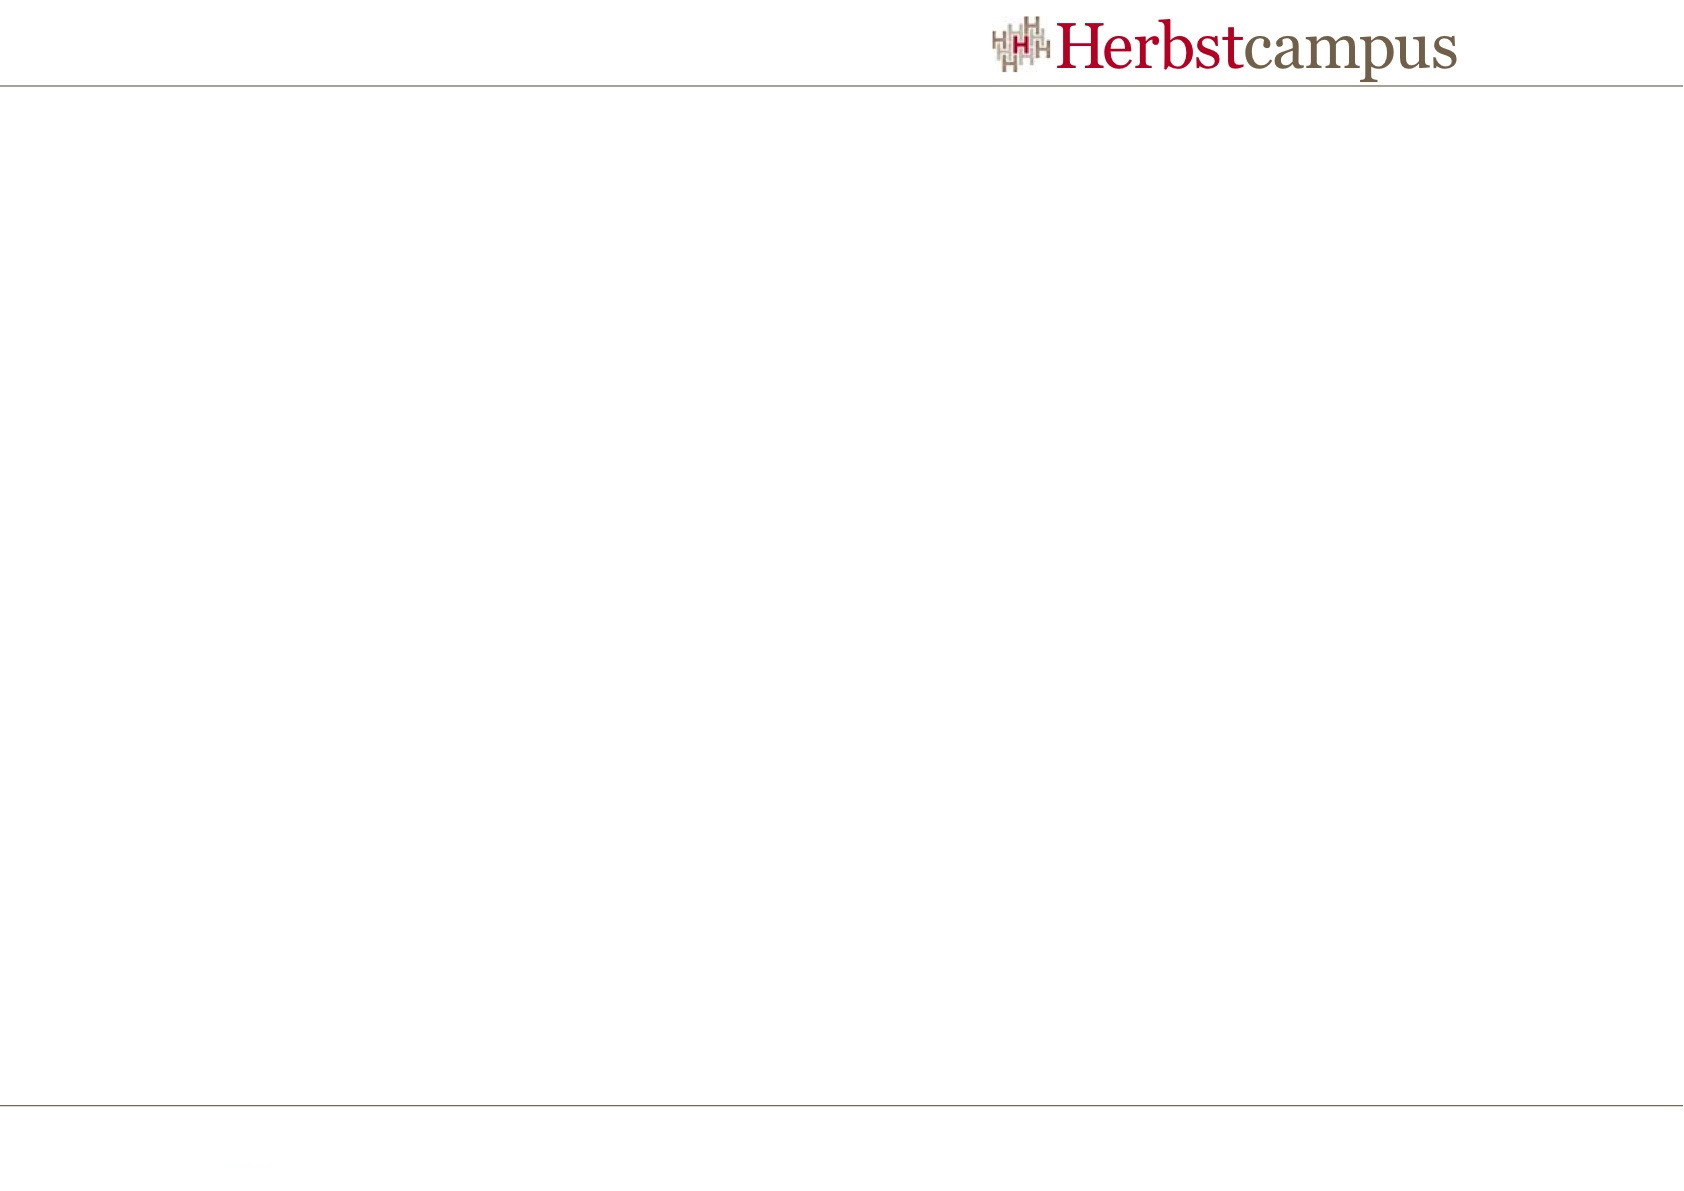
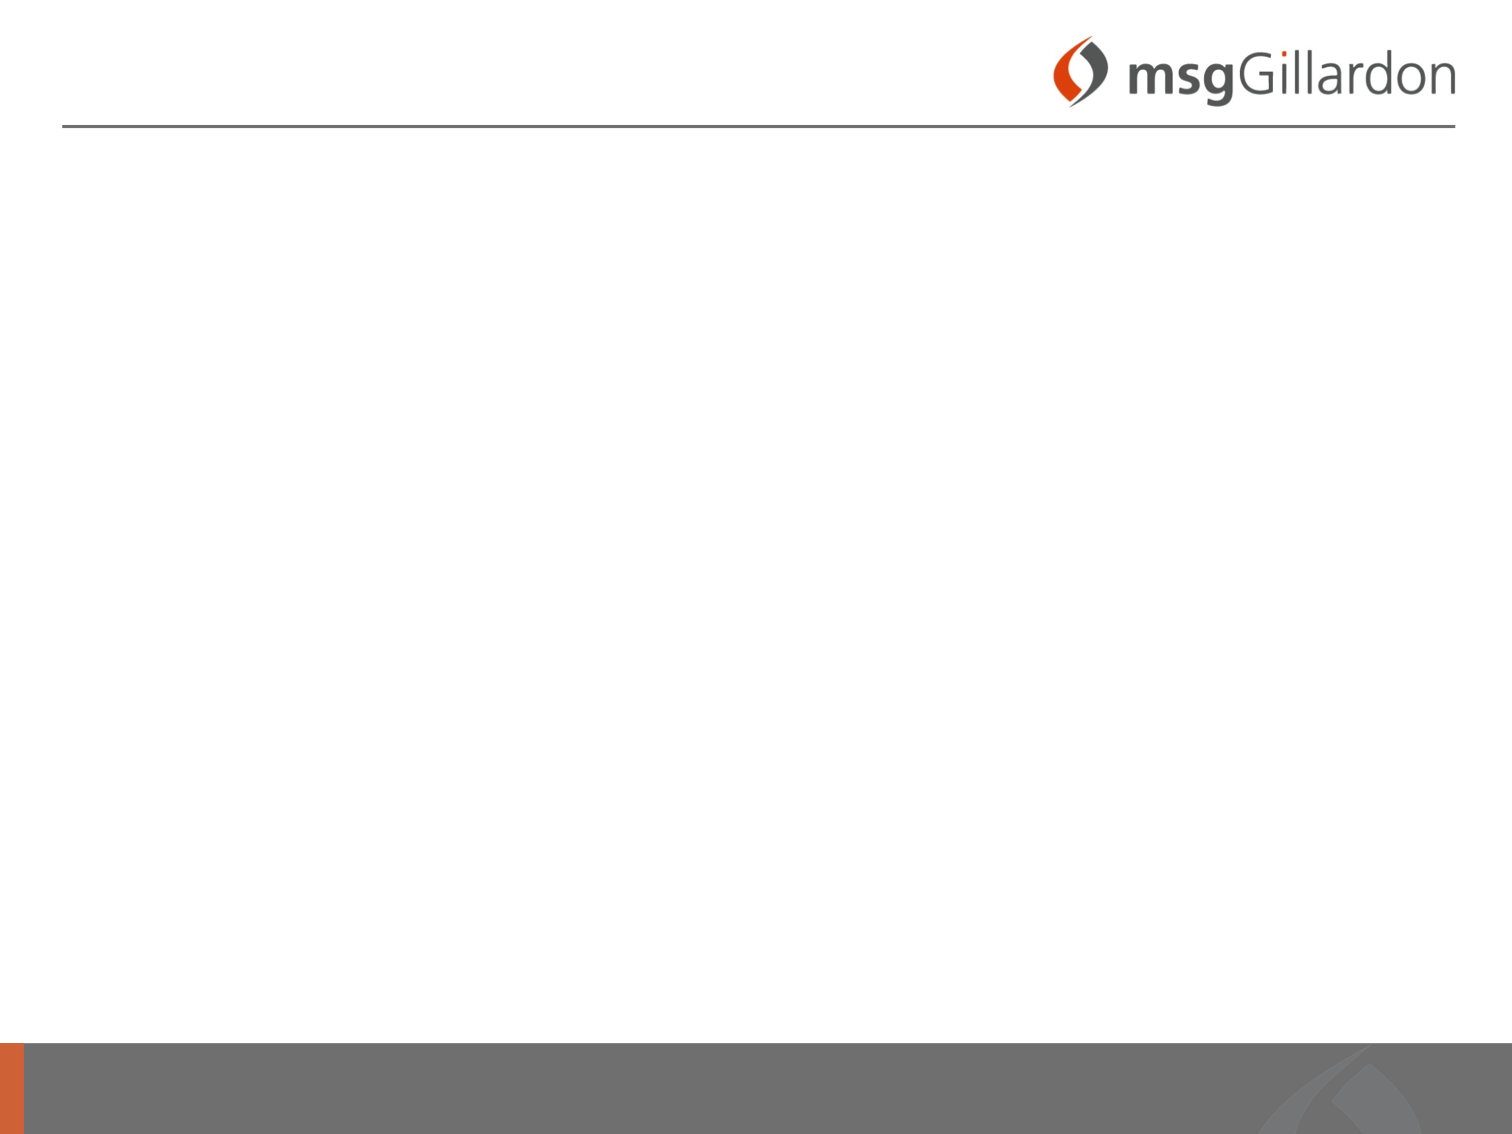
Umgestellt auf msgGillardon Look & Feel

Changed region(s): [[0.0, 0.8951, 1.0, 1.0], [0.5906, 0.0, 0.9636, 0.1235]]

diff --git a/slides/folien.tex b/slides/folien.tex
@@ -1,18 +1,20 @@
 \documentclass[utf8]{beamer}
-%\usecolortheme{seagull}
-\usecolortheme{herbstcampus}
-\useinnertheme{herbstcampus}
-\useoutertheme{herbstcampus}
+\usecolortheme{seagull}
+\usecolortheme{msggillardon}
+\useinnertheme{msggillardon}
+\useoutertheme{split}
+%\useoutertheme{msggillardon}
 \setbeamertemplate{navigation symbols}{}
 \setbeamercovered{dynamic}
 
+
 \AtBeginPart{\frame{\partpage}}
 
-\author{Andreas Leidig, Nicole Rauch}
+\author{Nicole Rauch, Steffen Eichenberg}
 \title{Beispielhaft}
 \subtitle{Specification by Example}
 \institute{msgGillardon AG}
-\date{September 2012}
+\date{16. Oktober 2012}
 
 \usepackage{ngerman}
 %\usepackage[utf8x,utf8]{inputenc}
